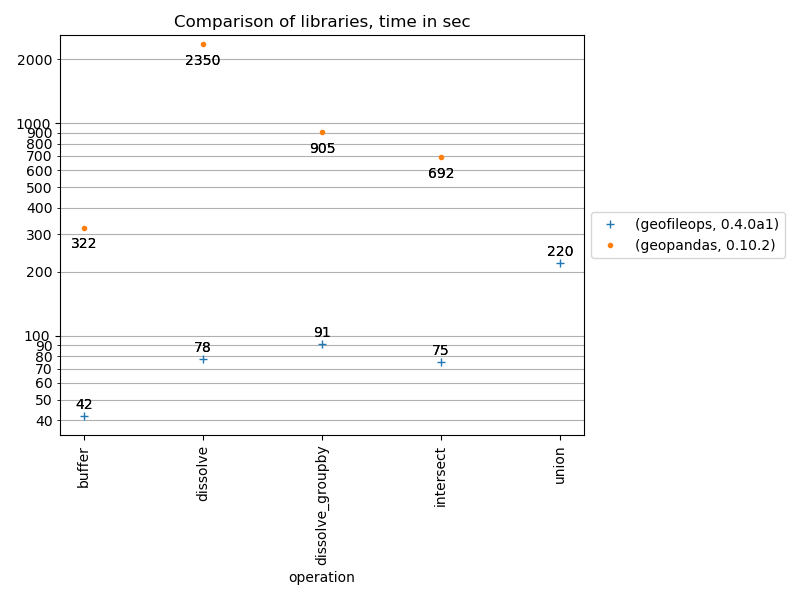
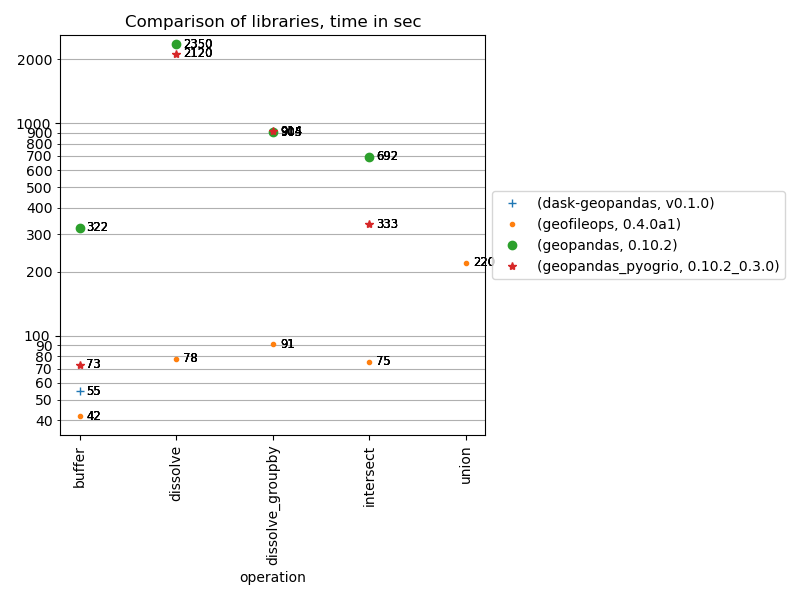
Add geopandas_pyogrio + dask_geopandas benchmarks
+ small improvements

diff --git a/reporter.py b/reporter.py
@@ -52,7 +52,7 @@ def generate_reports(
                     df=package_operation_df,
                     title=f"{package}-{operation}\n({operation_descr})", 
                     size=(8, 6),
-                    print_labels_on_points=True,
+                    label_points="above",
                     y_value_formatter="{0:.2f}",
                     output_path=results_report_path)
     
@@ -76,7 +76,7 @@ def generate_reports(
             title="Comparison of libraries, time in sec", 
             output_path=results_report_path,
             yscale="log",
-            print_labels_on_points=True,
+            label_points="right",
             y_value_formatter="{0:.0f}",
             size=(8, 6),
             linestyle="None",
@@ -88,7 +88,7 @@ def save_chart(
         output_path: Path,
         yscale: Optional[str] = None,
         y_value_formatter: Optional[str] = None,
-        print_labels_on_points: bool = False,
+        label_points: Optional[str] = None,
         open_output_file: bool = False,
         size: Tuple[float, float] = (8, 4),
         plot_kind: str = "line",
@@ -107,7 +107,7 @@ def save_chart(
               - {0:.2%} for a percentage.
               - {0:.2f} for a float with two decimals.
             Defaults to None.
-        print_labels_on_points (bool, optional): _description_. Defaults to False.
+        label_points (str, optional): _description_. Defaults to None.
         open_output_file (bool, optional): _description_. Defaults to False.
         size (Tuple[float, float], optional): _description_. Defaults to (8, 4).
         plot_kind (str, optional): _description_. Defaults to "line".
@@ -157,10 +157,29 @@ def save_chart(
     markers = ("+", ".", "o", "*")
     max_y_value = None
     min_y_value = None
+    
+    xytext = (0, 0)
+    horizontal_alignment = "center"
+    vertical_alignment = "center"
+    if label_points is not None:
+        if label_points in ["alternate", "below"]:
+            xytext = (0, -5)
+            vertical_alignment = "top"
+        elif label_points == "above":
+            xytext = (0, 5)
+            vertical_alignment = "bottom"
+        elif label_points == "left":
+            xytext = (-5, 0)
+            horizontal_alignment = "right"
+        elif label_points == "right":
+            xytext = (5, 0)
+            horizontal_alignment = "left"
+        else:
+            raise ValueError(f"Invalid value for labelpoints: {label_points}, should be one of alternate, below, above, left, right")
+            
     for i, line in enumerate(axs.get_lines()):
         line.set_marker(markers[i%len(markers)])
 
-        label_above_line = True
         for index, row in enumerate(df.itertuples()):
             for row_fieldname, row_fieldvalue in row._asdict().items():
                 if row_fieldname != "Index":
@@ -168,7 +187,8 @@ def save_chart(
                         max_y_value = row_fieldvalue
                     if min_y_value is None or row_fieldvalue < min_y_value:
                         min_y_value = row_fieldvalue
-                    if print_labels_on_points is True:
+                    
+                    if label_points is not None:
                         # Format label
                         if y_value_formatter is not None:
                             text = y_value_formatter.format(row_fieldvalue)
@@ -176,12 +196,13 @@ def save_chart(
                             text = str(row_fieldvalue)
                         
                         # Label below or above line? + switch
-                        if label_above_line is True:
-                            xytext = (0, 5)
-                            label_above_line = False
-                        else:
-                            xytext = (0, -15)
-                            label_above_line = True
+                        if label_points == "alternate":
+                            if xytext[1] > 0:
+                                xytext = (0, -5)
+                                vertical_alignment = "top"
+                            else:
+                                xytext = (0, 5)
+                                vertical_alignment = "bottom"
                             
                         axs.annotate(
                                 text=text, # type: ignore
@@ -190,7 +211,10 @@ def save_chart(
                                 xy=(index, row_fieldvalue),
                                 xytext=xytext, 
                                 textcoords="offset points",
-                                ha='center')
+                                ha=horizontal_alignment,
+                                va=vertical_alignment,
+                                fontsize="small",
+                                fontstyle="normal")
     
     # Set bottom and top values for y axis
     if max_y_value is not None:

diff --git a/benchmarks/benchmarks_geopandas_pyogrio.py b/benchmarks/benchmarks_geopandas_pyogrio.py
@@ -1,6 +1,6 @@
 # -*- coding: utf-8 -*-
 """
-Module to benchmark geopandas operations.
+Module to benchmark geopandas operations using pyogrio for IO.
 """
 
 from datetime import datetime
@@ -8,6 +8,7 @@ import logging
 from pathlib import Path
 
 import geopandas as gpd
+import pyogrio
 
 from benchmarker import RunResult
 from benchmarks import testdata
@@ -23,10 +24,10 @@ logger = logging.getLogger(__name__)
 ################################################################################
 
 def get_package() -> str:
-    return "geopandas"
+    return "geopandas_pyogrio"
 
 def get_version() -> str:
-    return gpd.__version__
+    return f"{gpd.__version__}_{pyogrio.__version__}".replace("v", "")
 
 def buffer(tmp_dir: Path) -> RunResult:
     
@@ -36,7 +37,7 @@ def buffer(tmp_dir: Path) -> RunResult:
     ### Go! ###
     # Read input file
     start_time = datetime.now()
-    gdf = gpd.read_file(input_path)
+    gdf = pyogrio.read_dataframe(input_path)
     logger.info(f"time for read: {(datetime.now()-start_time).total_seconds()}")
     
     # Buffer
@@ -47,7 +48,7 @@ def buffer(tmp_dir: Path) -> RunResult:
     # Write to output file
     start_time_write = datetime.now()
     output_path = tmp_dir / f"{input_path.stem}_geopandas_buf.gpkg"
-    gdf.to_file(output_path, layer=output_path.stem, driver="GPKG")
+    pyogrio.write_dataframe(gdf, output_path, layer=output_path.stem, driver="GPKG")
     logger.info(f"write took {(datetime.now()-start_time_write).total_seconds()}")    
     result = RunResult(
             package=get_package(), 
@@ -69,7 +70,7 @@ def dissolve(tmp_dir: Path) -> RunResult:
     ### Go! ###
     # Read input file
     start_time = datetime.now()
-    gdf = gpd.read_file(input_path)
+    gdf = pyogrio.read_dataframe(input_path)
     logger.info(f"time for read: {(datetime.now()-start_time).total_seconds()}")
     
     # dissolve
@@ -80,7 +81,7 @@ def dissolve(tmp_dir: Path) -> RunResult:
     # Write to output file
     start_time_write = datetime.now()
     output_path = tmp_dir / f"{input_path.stem}_geopandas_diss.gpkg"
-    gdf.to_file(output_path, layer=output_path.stem, driver="GPKG")
+    pyogrio.write_dataframe(gdf, output_path, layer=output_path.stem, driver="GPKG")
     logger.info(f"write took {(datetime.now()-start_time_write).total_seconds()}")
     result = RunResult(
             package=get_package(), 
@@ -101,7 +102,7 @@ def dissolve_groupby(tmp_dir: Path) -> RunResult:
     ### Go! ###
     # Read input file
     start_time = datetime.now()
-    gdf = gpd.read_file(input_path)
+    gdf = pyogrio.read_dataframe(input_path)
     logger.info(f"time for read: {(datetime.now()-start_time).total_seconds()}")
     
     # dissolve
@@ -112,7 +113,7 @@ def dissolve_groupby(tmp_dir: Path) -> RunResult:
     # Write to output file
     start_time_write = datetime.now()
     output_path = tmp_dir / f"{input_path.stem}_geopandas_diss_groupby.gpkg"
-    gdf.to_file(output_path, layer=output_path.stem, driver="GPKG")
+    pyogrio.write_dataframe(gdf, output_path, layer=output_path.stem, driver="GPKG")
     logger.info(f"write took {(datetime.now()-start_time_write).total_seconds()}")
     result = RunResult(
             package=get_package(), 
@@ -133,8 +134,8 @@ def intersect(tmp_dir: Path) -> RunResult:
     ### Go! ###
     # Read input files
     start_time = datetime.now()
-    input1_gdf = gpd.read_file(input1_path)
-    input2_gdf = gpd.read_file(input2_path)
+    input1_gdf = pyogrio.read_dataframe(input1_path)
+    input2_gdf = pyogrio.read_dataframe(input2_path)
     logger.info(f"time for read: {(datetime.now()-start_time).total_seconds()}")
     
     # intersect
@@ -145,7 +146,7 @@ def intersect(tmp_dir: Path) -> RunResult:
     # Write to output file
     start_time_write = datetime.now()
     output_path = tmp_dir / f"{input1_path.stem}_inters_{input2_path.stem}.gpkg"
-    output_gdf.to_file(output_path, layer=output_path.stem, driver="GPKG")
+    pyogrio.write_dataframe(output_gdf, output_path, layer=output_path.stem, driver="GPKG")
     logger.info(f"write took {(datetime.now()-start_time_write).total_seconds()}")
     secs_taken = (datetime.now()-start_time).total_seconds()
     result = RunResult(

diff --git a/benchmarks/benchmarks_dask_geopandas.py b/benchmarks/benchmarks_dask_geopandas.py
@@ -5,9 +5,11 @@ Module to benchmark geopandas operations.
 
 from datetime import datetime
 import logging
+import multiprocessing
 from pathlib import Path
 
-import geopandas as gpd
+import dask_geopandas as dgpd
+import pyogrio
 
 from benchmarker import RunResult
 from benchmarks import testdata
@@ -22,11 +24,11 @@ logger = logging.getLogger(__name__)
 # The real work
 ################################################################################
 
-def get_package() -> str:
-    return "geopandas"
+def _get_package() -> str:
+    return "dask-geopandas"
 
-def get_version() -> str:
-    return gpd.__version__
+def _get_version() -> str:
+    return dgpd.__version__
 
 def buffer(tmp_dir: Path) -> RunResult:
     
@@ -36,31 +38,43 @@ def buffer(tmp_dir: Path) -> RunResult:
     ### Go! ###
     # Read input file
     start_time = datetime.now()
-    gdf = gpd.read_file(input_path)
+    gdf = pyogrio.read_dataframe(input_path)
     logger.info(f"time for read: {(datetime.now()-start_time).total_seconds()}")
     
     # Buffer
+    dask_gdf = dgpd.from_geopandas(gdf, npartitions=multiprocessing.cpu_count())
     start_time_buffer = datetime.now()
-    gdf.geometry = gdf.geometry.buffer(distance=1, resolution=5)
+    dask_gdf["geometry"] = dask_gdf["geometry"].buffer(distance=1, resolution=5).compute()
+    assert isinstance(dask_gdf, dgpd.GeoDataFrame)
     logger.info(f"time for buffer: {(datetime.now()-start_time_buffer).total_seconds()}")
     
     # Write to output file
     start_time_write = datetime.now()
+    
+    # Remark: write to parquet is significantly faster (~4x), but isn't really 
+    # a typical geo file + actually is 1 file per partition in a directory...?
+    #output_path = tmp_dir / f"{input_path.stem}_geopandas_buf.parquet"
+    #dask_gdf.to_parquet(output_path) 
+
     output_path = tmp_dir / f"{input_path.stem}_geopandas_buf.gpkg"
-    gdf.to_file(output_path, layer=output_path.stem, driver="GPKG")
+    result_gdf = dask_gdf.compute()
+    pyogrio.write_dataframe(result_gdf, output_path, layer=output_path.stem, driver="GPKG")
     logger.info(f"write took {(datetime.now()-start_time_write).total_seconds()}")    
     result = RunResult(
-            package=get_package(), 
-            package_version=get_version(),
+            package=_get_package(), 
+            package_version=_get_version(),
             operation="buffer", 
             secs_taken=(datetime.now()-start_time).total_seconds(),
-            operation_descr="buffer agri parcels BEFL (~500.000 polygons)")
+            operation_descr="buffer agri parcels BEFL (~500.000 polygons)",
+            run_details={"nb_cpu": multiprocessing.cpu_count()})
     
     # Cleanup
+    #shutil.rmtree(output_path)
     output_path.unlink()
 
     return result
 
+"""
 def dissolve(tmp_dir: Path) -> RunResult:
     
     ### Init ###
@@ -158,3 +172,4 @@ def intersect(tmp_dir: Path) -> RunResult:
     # Cleanup and return
     output_path.unlink()
     return result
+"""

diff --git a/benchmarks/benchmarks_geofileops.py b/benchmarks/benchmarks_geofileops.py
@@ -23,6 +23,12 @@ logger = logging.getLogger(__name__)
 # The real work
 ################################################################################
 
+def get_package() -> str:
+    return "geofileops"
+
+def get_version() -> str:
+    return gfo.__version__
+
 def buffer(tmp_dir: Path) -> RunResult:
     
     # Init
@@ -33,8 +39,8 @@ def buffer(tmp_dir: Path) -> RunResult:
     start_time = datetime.now()
     gfo.buffer(input_path, output_path, distance=1, force=True)
     result = RunResult(
-            package="geofileops", 
-            package_version=gfo.__version__,
+            package=get_package(), 
+            package_version=get_version(),
             operation="buffer", 
             secs_taken=(datetime.now()-start_time).total_seconds(),
             operation_descr="buffer on agri parcel layer BEFL (~500.000 polygons)",
@@ -58,8 +64,8 @@ def dissolve_nogroupby(tmp_dir: Path) -> RunResult:
             explodecollections=True,
             force=True)
     result = RunResult(
-            package="geofileops", 
-            package_version=gfo.__version__,
+            package=get_package(), 
+            package_version=get_version(),
             operation="dissolve",
             secs_taken=(datetime.now()-start_time).total_seconds(),
             operation_descr="dissolve on agri parcels BEFL (~500.000 polygons)",
@@ -84,8 +90,8 @@ def dissolve_groupby(tmp_dir: Path) -> RunResult:
             explodecollections=True,
             force=True)
     result = RunResult(
-            package="geofileops", 
-            package_version=gfo.__version__,
+            package=get_package(), 
+            package_version=get_version(),
             operation="dissolve_groupby", 
             secs_taken=(datetime.now()-start_time).total_seconds(),
             operation_descr="dissolve on agri parcels BEFL (~500.000 polygons), groupby=[GEWASGROEP]",
@@ -108,8 +114,8 @@ def intersect(tmp_dir: Path) -> RunResult:
             output_path=output_path,
             force=True)
     result = RunResult(
-            package="geofileops", 
-            package_version=gfo.__version__,
+            package=get_package(), 
+            package_version=get_version(),
             operation='intersect', 
             secs_taken=(datetime.now()-start_time).total_seconds(),
             operation_descr="intersect between 2 agri parcel layers BEFL (2*~500.000 polygons)",
@@ -132,8 +138,8 @@ def union(tmp_dir: Path) -> RunResult:
             output_path=output_path,
             force=True)
     result = RunResult(
-            package="geofileops", 
-            package_version=gfo.__version__,
+            package=get_package(), 
+            package_version=get_version(),
             operation="union",
             secs_taken=(datetime.now()-start_time).total_seconds(),
             operation_descr="union between 2 agri parcel layers BEFL (2*~500.000 polygons)",

diff --git a/benchmarker.py b/benchmarker.py
@@ -89,6 +89,8 @@ def run_benchmarks(
             # Run the functions in this benchmark
             functions = inspect.getmembers(benchmark_implementation, inspect.isfunction)
             for function_name, function in functions:
+                if function_name.startswith("_"):
+                    continue
                 if functions_to_run is not None and function_name not in functions_to_run:
                     # Function whitelist specified, and this one isn't in it
                     logger.info(f"function {function_name} skipped, because not in functions_to_run: {functions_to_run}")

diff --git a/benchmark_geopandas_pyogrio.py b/benchmark_geopandas_pyogrio.py
@@ -1,0 +1,9 @@
+
+import benchmarker
+
+if __name__ == "__main__":
+    benchmarker.run_benchmarks(["benchmarks_geopandas_pyogrio"])
+
+    # Only run specific benchmark function(s)
+    #benchmarker.run_benchmarks(["benchmarks_geopandas_pyogrio"], ["dissolve_groupby"])
+    #benchmarker.run_benchmarks(["benchmarks_geopandas_pyogrio"], ["buffer"])

diff --git a/benchmark_dask_geopandas.py b/benchmark_dask_geopandas.py
@@ -1,0 +1,8 @@
+
+import benchmarker
+
+if __name__ == "__main__":
+    benchmarker.run_benchmarks(["benchmarks_dask_geopandas"])
+
+    # Only run specific benchmark function(s)
+    #benchmarker.run_benchmarks(["benchmarks_geopandas"], ["dissolve_groupby"])

diff --git a/tmp/version.py b/tmp/version.py
@@ -1,0 +1,7 @@
+
+import geopandas as gpd
+import pyogrio
+
+if __name__ == "__main__":
+    print(f"<{gpd.__version__}_{pyogrio.__version__}>")
+    
